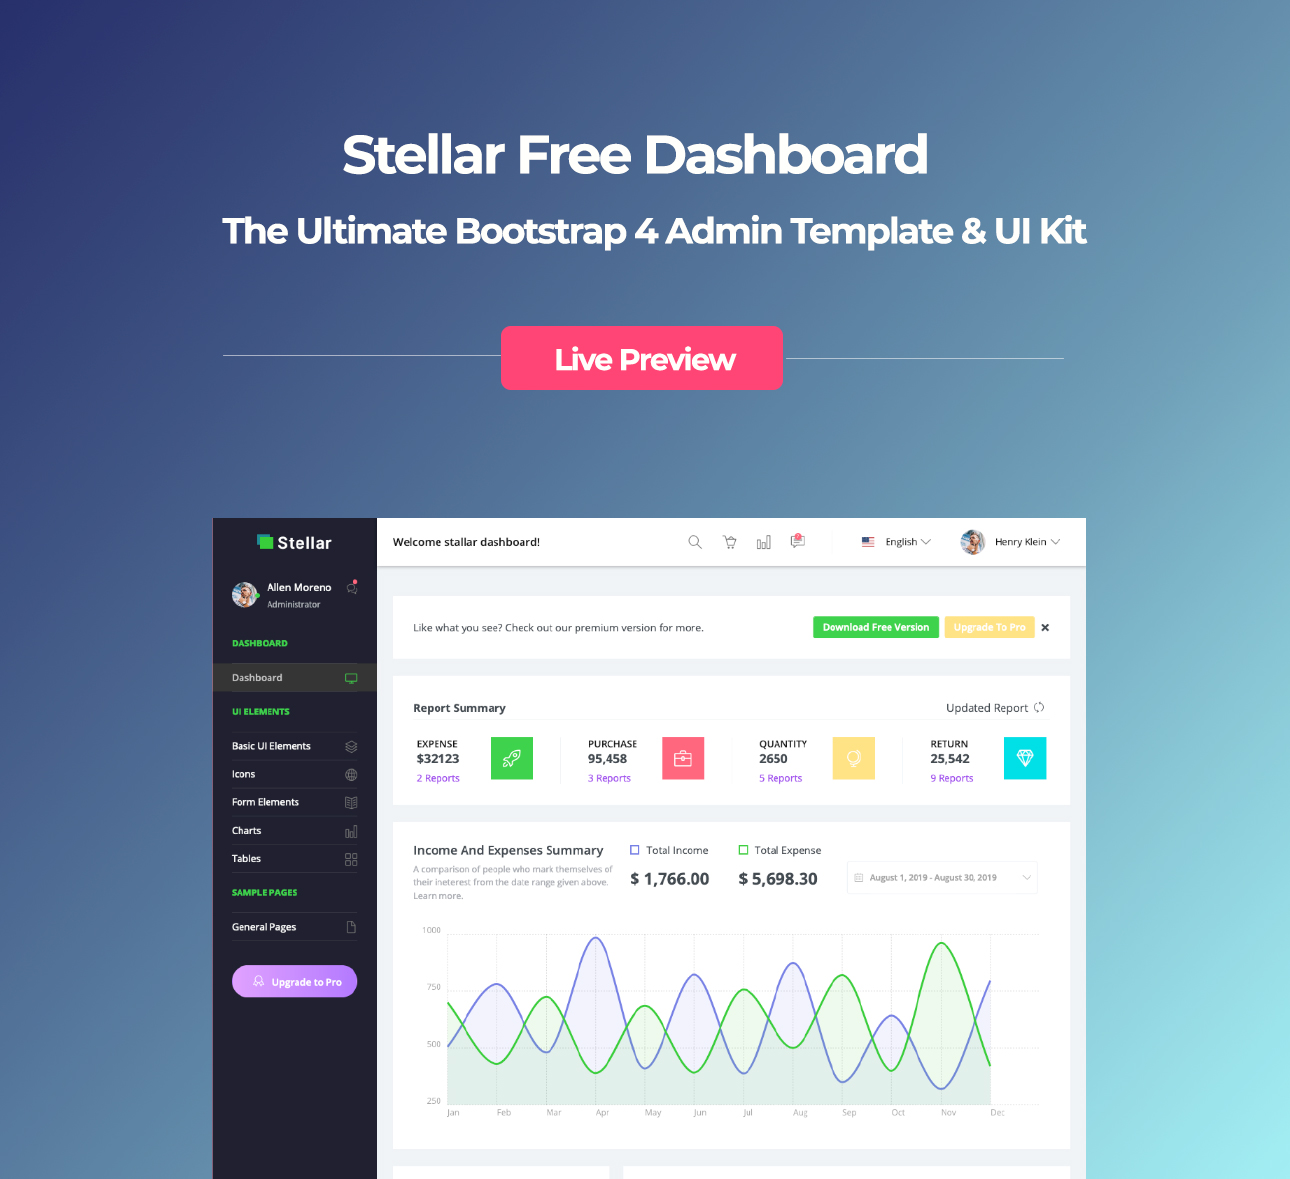
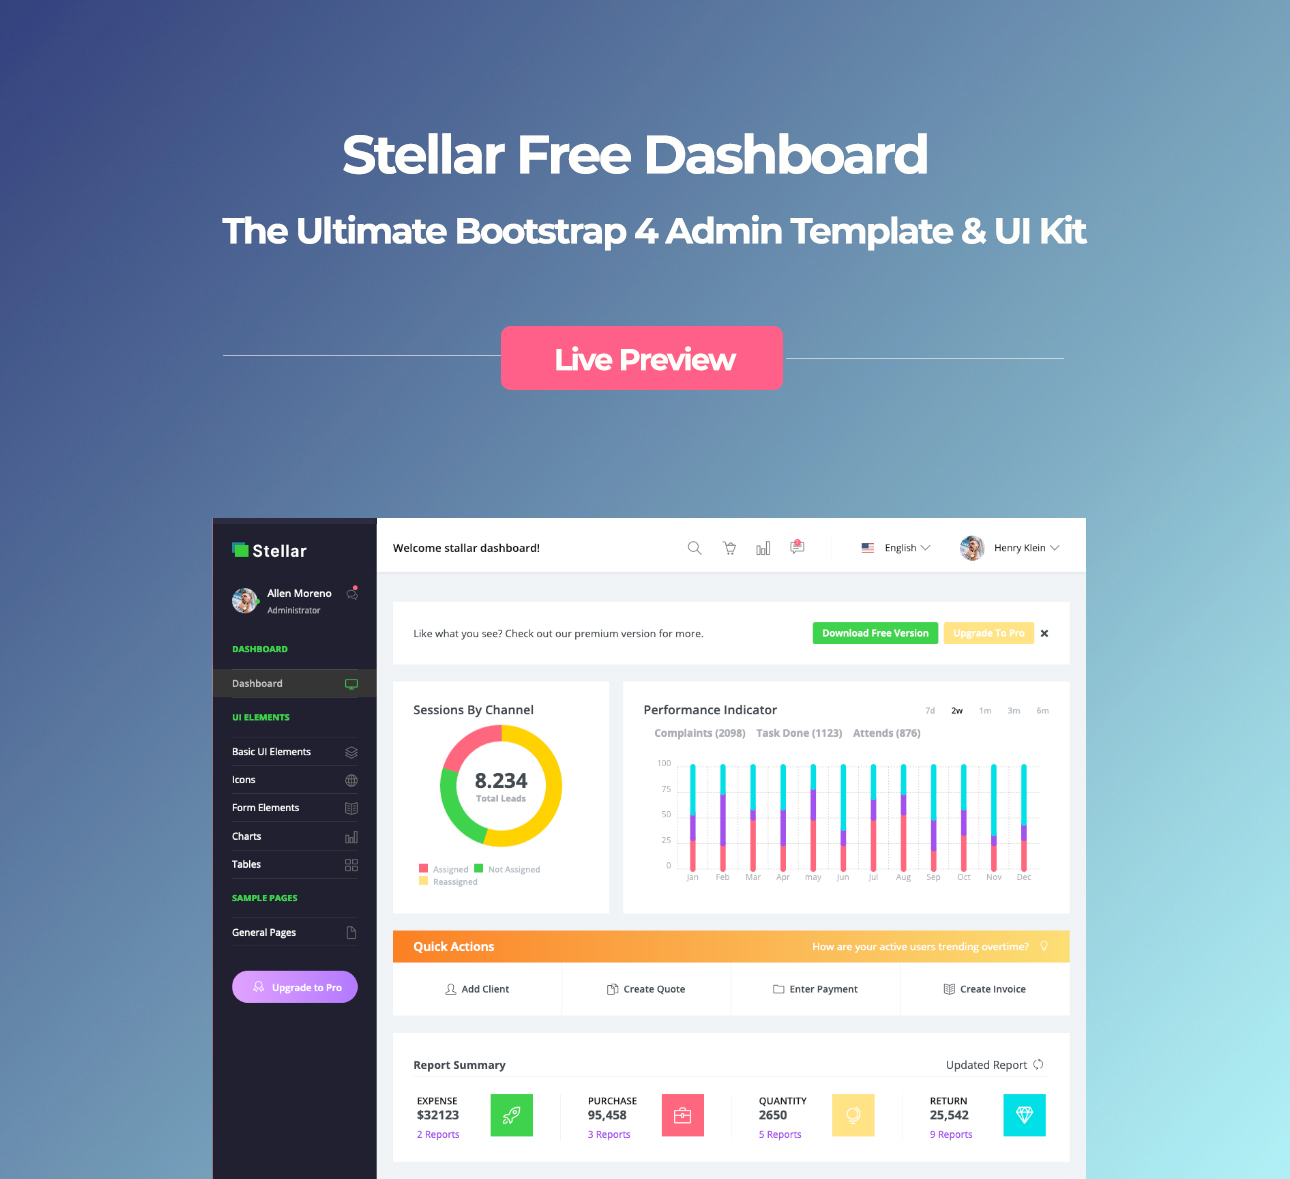
improved design

diff --git a/index.html b/index.html
@@ -225,6 +225,93 @@
               </div>
             </div>
             <div class="row">
+              <div class="col-md-4 grid-margin stretch-card">
+                <div class="card">
+                  <div class="card-body">
+                    <h4 class="card-title">Sessions by channel</h4>
+                    <div class="aligner-wrapper">
+                      <canvas id="sessionsDoughnutChart" height="210"></canvas>
+                      <div class="wrapper d-flex flex-column justify-content-center absolute absolute-center">
+                        <h2 class="text-center mb-0 font-weight-bold">8.234</h2>
+                        <small class="d-block text-center text-muted  font-weight-semibold mb-0">Total Leads</small>
+                      </div>
+                    </div>
+                    <div class="wrapper mt-4 d-flex flex-wrap align-items-cente">
+                      <div class="d-flex">
+                        <span class="square-indicator bg-danger ml-2"></span>
+                        <p class="mb-0 ml-2">Assigned</p>
+                      </div>
+                      <div class="d-flex">
+                        <span class="square-indicator bg-success ml-2"></span>
+                        <p class="mb-0 ml-2">Not Assigned</p>
+                      </div>
+                      <div class="d-flex">
+                        <span class="square-indicator bg-warning ml-2"></span>
+                        <p class="mb-0 ml-2">Reassigned</p>
+                      </div>
+                    </div>
+                  </div>
+                </div>
+              </div>
+              <div class="col-md-8 grid-margin stretch-card">
+                <div class="card">
+                  <div class="card-body performane-indicator-card">
+                    <div class="d-sm-flex">
+                      <h4 class="card-title flex-shrink-1">Performance Indicator</h4>
+                      <p class="m-sm-0 ml-sm-auto flex-shrink-0">
+                        <span class="data-time-range ml-0">7d</span>
+                        <span class="data-time-range active">2w</span>
+                        <span class="data-time-range">1m</span>
+                        <span class="data-time-range">3m</span>
+                        <span class="data-time-range">6m</span>
+                      </p>
+                    </div>
+                    <div class="d-sm-flex flex-wrap">
+                      <div class="d-flex align-items-center">
+                        <span class="dot-indicator bg-primary ml-2"></span>
+                        <p class="mb-0 ml-2 text-muted font-weight-semibold">Complaints (2098)</p>
+                      </div>
+                      <div class="d-flex align-items-center">
+                        <span class="dot-indicator bg-info ml-2"></span>
+                        <p class="mb-0 ml-2 text-muted font-weight-semibold"> Task Done (1123)</p>
+                      </div>
+                      <div class="d-flex align-items-center">
+                        <span class="dot-indicator bg-danger ml-2"></span>
+                        <p class="mb-0 ml-2 text-muted font-weight-semibold">Attends (876)</p>
+                      </div>
+                    </div>
+                    <div id="performance-indicator-chart" class="ct-chart mt-4"></div>
+                  </div>
+                </div>
+              </div>
+            </div>
+            <!-- Quick Action Toolbar Starts-->
+            <div class="row quick-action-toolbar">
+              <div class="col-md-12 grid-margin">
+                <div class="card">
+                  <div class="card-header d-block d-md-flex">
+                    <h5 class="mb-0">Quick Actions</h5>
+                    <p class="ml-auto mb-0">How are your active users trending overtime?<i class="icon-bulb"></i></p>
+                  </div>
+                  <div class="d-md-flex row m-0 quick-action-btns" role="group" aria-label="Quick action buttons">
+                    <div class="col-sm-6 col-md-3 p-3 text-center btn-wrapper">
+                      <button type="button" class="btn px-0"> <i class="icon-user mr-2"></i> Add Client</button>
+                    </div>
+                    <div class="col-sm-6 col-md-3 p-3 text-center btn-wrapper">
+                      <button type="button" class="btn px-0"><i class="icon-docs mr-2"></i> Create Quote</button>
+                    </div>
+                    <div class="col-sm-6 col-md-3 p-3 text-center btn-wrapper">
+                      <button type="button" class="btn px-0"><i class="icon-folder mr-2"></i> Enter Payment</button>
+                    </div>
+                    <div class="col-sm-6 col-md-3 p-3 text-center btn-wrapper">
+                      <button type="button" class="btn px-0"><i class="icon-book-open mr-2"></i>Create Invoice</button>
+                    </div>
+                  </div>
+                </div>
+              </div>
+            </div>
+            <!-- Quick Action Toolbar Ends-->
+            <div class="row">
               <div class="col-md-12 grid-margin">
                 <div class="card">
                   <div class="card-body">
@@ -311,67 +398,6 @@
                         <div class="ct-chart" id="income-expense-summary-chart"></div>
                       </div>
                     </div>
-                  </div>
-                </div>
-              </div>
-            </div>
-            <div class="row">
-              <div class="col-md-4 grid-margin stretch-card">
-                <div class="card">
-                  <div class="card-body">
-                    <h4 class="card-title">Sessions by channel</h4>
-                    <div class="aligner-wrapper">
-                      <canvas id="sessionsDoughnutChart" height="210"></canvas>
-                      <div class="wrapper d-flex flex-column justify-content-center absolute absolute-center">
-                        <h2 class="text-center mb-0 font-weight-bold">8.234</h2>
-                        <small class="d-block text-center text-muted  font-weight-semibold mb-0">Total Leads</small>
-                      </div>
-                    </div>
-                    <div class="wrapper mt-4 d-flex flex-wrap align-items-cente">
-                      <div class="d-flex">
-                        <span class="square-indicator bg-danger ml-2"></span>
-                        <p class="mb-0 ml-2">Assigned</p>
-                      </div>
-                      <div class="d-flex">
-                        <span class="square-indicator bg-success ml-2"></span>
-                        <p class="mb-0 ml-2">Not Assigned</p>
-                      </div>
-                      <div class="d-flex">
-                        <span class="square-indicator bg-warning ml-2"></span>
-                        <p class="mb-0 ml-2">Reassigned</p>
-                      </div>
-                    </div>
-                  </div>
-                </div>
-              </div>
-              <div class="col-md-8 grid-margin stretch-card">
-                <div class="card">
-                  <div class="card-body performane-indicator-card">
-                    <div class="d-sm-flex">
-                      <h4 class="card-title flex-shrink-1">Performance Indicator</h4>
-                      <p class="m-sm-0 ml-sm-auto flex-shrink-0">
-                        <span class="data-time-range ml-0">7d</span>
-                        <span class="data-time-range active">2w</span>
-                        <span class="data-time-range">1m</span>
-                        <span class="data-time-range">3m</span>
-                        <span class="data-time-range">6m</span>
-                      </p>
-                    </div>
-                    <div class="d-sm-flex flex-wrap">
-                      <div class="d-flex align-items-center">
-                        <span class="dot-indicator bg-primary ml-2"></span>
-                        <p class="mb-0 ml-2 text-muted font-weight-semibold">Complaints (2098)</p>
-                      </div>
-                      <div class="d-flex align-items-center">
-                        <span class="dot-indicator bg-info ml-2"></span>
-                        <p class="mb-0 ml-2 text-muted font-weight-semibold"> Task Done (1123)</p>
-                      </div>
-                      <div class="d-flex align-items-center">
-                        <span class="dot-indicator bg-danger ml-2"></span>
-                        <p class="mb-0 ml-2 text-muted font-weight-semibold">Attends (876)</p>
-                      </div>
-                    </div>
-                    <div id="performance-indicator-chart" class="ct-chart mt-4"></div>
                   </div>
                 </div>
               </div>
